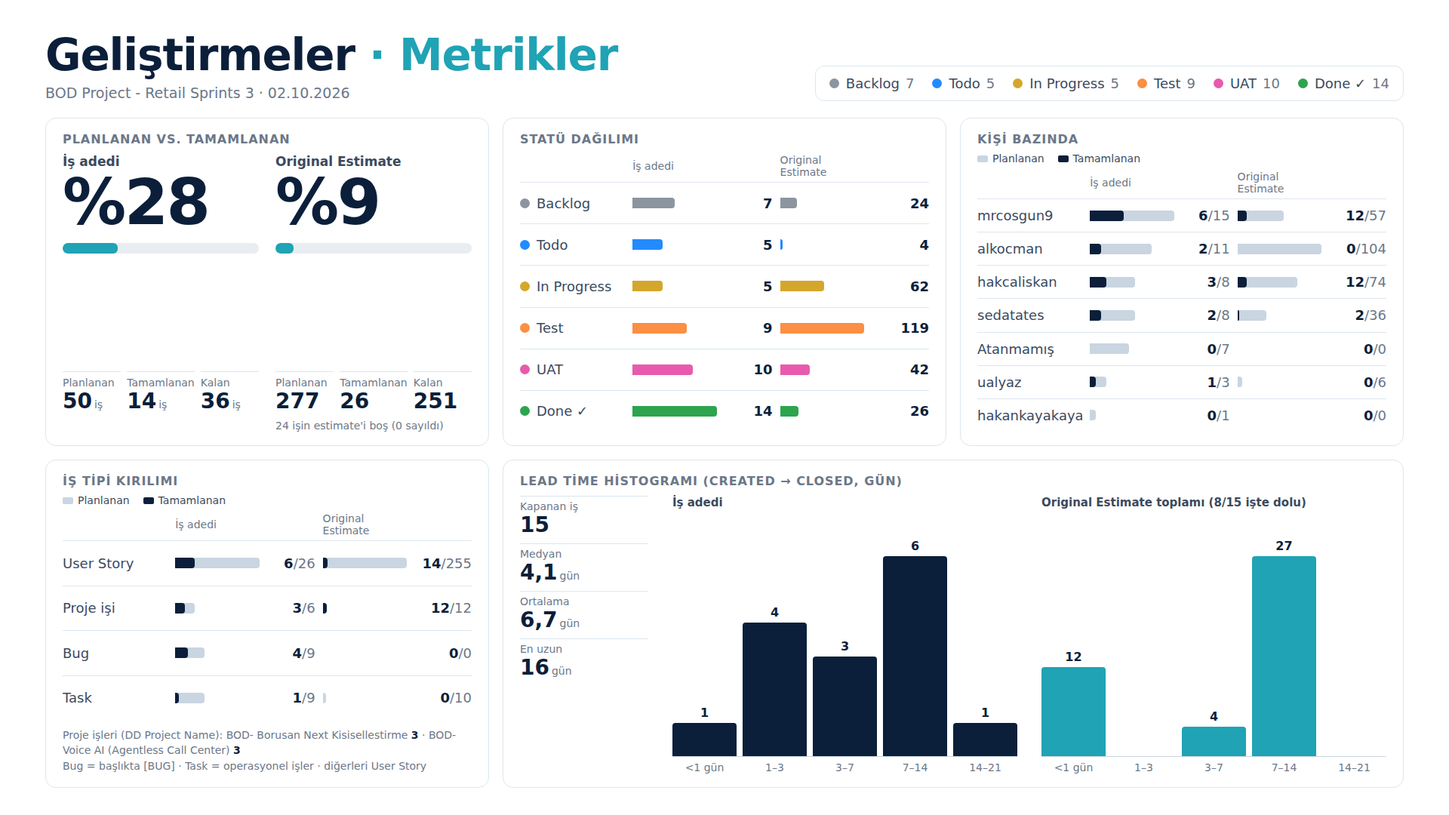
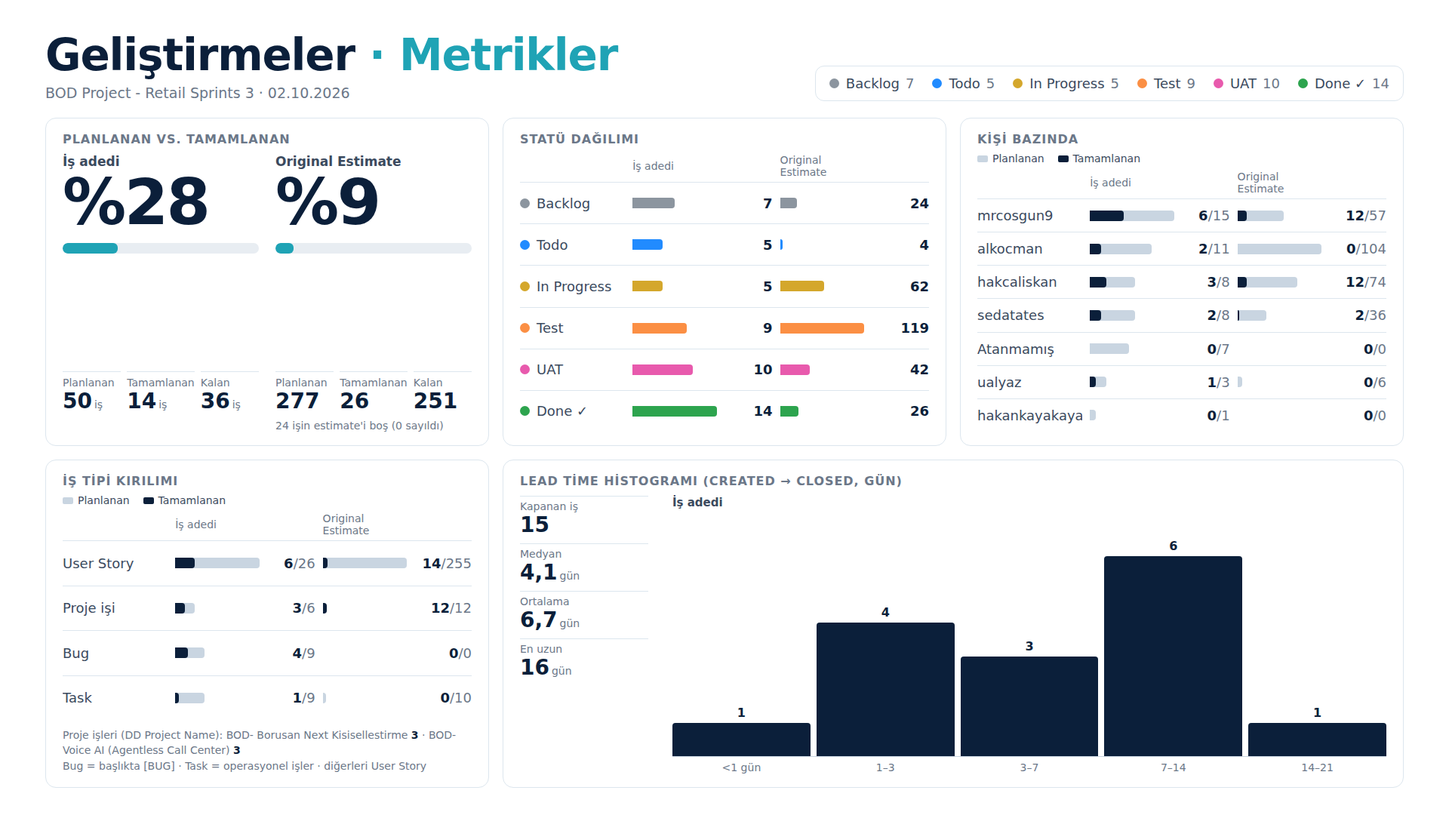
Add Auction team slides; lead time histogram by count only
- drop the Original Estimate version of the lead time histogram
- order exported statuses by workflow (Review before Test, Released after Done)
- task keywords are now word-aware regexes; add task/dönüşleri/modelbuilder/dwh
- generate Auction Sprints slides under sunum/auction

Claude-Session: https://claude.ai/code/session_014SYUQQBmb2NC56QaszpaqB

Changed region(s): [[0.6562, 0.6722, 0.9688, 0.9472], [0.4688, 0.6722, 0.6562, 0.9472], [0.7188, 0.6111, 0.9062, 0.6417]]

diff --git a/sunum/auction/auction-slaytlar.html b/sunum/auction/auction-slaytlar.html
@@ -1,0 +1,219 @@
+<!doctype html>
+<html lang="tr">
+<head>
+<meta charset="utf-8">
+<meta name="viewport" content="width=device-width, initial-scale=1">
+<title>Geliştirmeler Slaytları</title>
+<link rel="preconnect" href="https://fonts.googleapis.com">
+<link href="https://fonts.googleapis.com/css2?family=Plus+Jakarta+Sans:wght@400;500;600;800&display=swap" rel="stylesheet">
+<style>
+:root { --bg:#E9EDF2; --slide:#FFFFFF; --ink:#0B1F3A; --ink-2:#3B4A5E; --muted:#6B7788;
+  --rule:#DCE6EE; --accent:#1FA3B5; --track:#E8EDF2; --plan:#C9D5E1; --s:1; }
+* { box-sizing:border-box; }
+body { margin:0; background:var(--bg); color:var(--ink);
+  font-family:"Plus Jakarta Sans", Inter, system-ui, -apple-system, "Segoe UI", sans-serif; }
+.deck { display:flex; flex-direction:column; align-items:center; gap:24px; padding:24px 0; }
+.frame { width:calc(1920px * var(--s)); height:calc(1080px * var(--s)); overflow:hidden;
+  box-shadow:0 2px 12px rgba(11,31,58,.12); }
+.slide { width:1920px; height:1080px; background:var(--slide); padding:44px 60px 36px;
+  transform:scale(var(--s)); transform-origin:0 0; display:flex; flex-direction:column; }
+header { display:flex; align-items:flex-end; justify-content:space-between; gap:32px; margin-bottom:22px; }
+h1 { white-space:nowrap; font-size:58px; font-weight:800; letter-spacing:-.02em; margin:0; line-height:1; }
+h1 span { color:var(--accent); font-weight:600; }
+.sub { color:var(--muted); font-size:19px; margin-top:10px; white-space:nowrap; }
+.legend { list-style:none; margin:0; padding:12px 18px; display:flex; flex-wrap:wrap; gap:6px 24px;
+  border:1px solid var(--rule); border-radius:12px; font-size:18px; color:var(--ink-2); justify-content:flex-end; min-width:0; flex:0 1 auto; }
+.legend li { display:flex; align-items:center; }
+.legend .muted { margin-left:8px; color:var(--muted); font-variant-numeric:tabular-nums; }
+.dot { display:inline-block; width:13px; height:13px; border-radius:50%; background:var(--c); margin-right:9px; flex:none; }
+/* metrikler */
+.grid { flex:1; min-height:0; display:grid; grid-template-columns:repeat(3, minmax(0,1fr));
+  grid-template-rows:minmax(0,1fr) minmax(0,1fr); gap:18px; }
+.panel { border:1px solid var(--rule); border-radius:14px; padding:18px 22px; display:flex; flex-direction:column; min-height:0; }
+.panel.wide { grid-column:span 2; }
+.ptitle { font-size:16px; font-weight:600; text-transform:uppercase; letter-spacing:.06em; color:var(--muted); margin-bottom:10px; }
+.pfoot { font-size:14px; color:var(--muted); margin-top:auto; padding-top:10px; line-height:1.45; }
+.pfoot b { color:var(--ink); }
+.comps { display:grid; grid-template-columns:1fr 1fr; gap:22px; flex:1; }
+.comp { display:flex; flex-direction:column; }
+.clabel { font-size:17px; color:var(--ink-2); font-weight:600; }
+.chero { font-size:84px; font-weight:800; line-height:1.05; letter-spacing:-.03em; font-variant-numeric:tabular-nums; }
+.bar { height:14px; border-radius:7px; background:var(--track); overflow:hidden; margin:10px 0 auto; }
+.bar i { display:block; height:100%; background:var(--accent); border-radius:6px; }
+.cnums { display:grid; grid-template-columns:repeat(3,1fr); gap:8px; }
+.cnums div { display:flex; flex-direction:column; border-top:1px solid var(--rule); padding-top:6px; }
+.cnums span { font-size:14px; color:var(--muted); }
+.cnums b { font-size:28px; font-variant-numeric:tabular-nums; white-space:nowrap; }
+.cnums small, .lstats small { font-size:14px; font-weight:400; color:var(--muted); margin-left:3px; }
+.cnote { font-size:14px; color:var(--muted); margin-top:8px; }
+.dual { display:flex; flex-direction:column; flex:1; justify-content:space-evenly; }
+.dhead, .drow { display:grid; grid-template-columns:minmax(0,1.25fr) minmax(0,1fr) 64px minmax(0,1fr) 76px;
+  column-gap:10px; align-items:center; }
+.dhead { font-size:14px; color:var(--muted); padding-bottom:5px; }
+.drow { border-top:1px solid var(--rule); padding:6px 0; font-size:18px; flex:1; max-height:64px; }
+.dl { overflow:hidden; text-overflow:ellipsis; white-space:nowrap; color:var(--ink-2); display:flex; align-items:center; }
+.db { position:relative; height:14px; }
+.tr, .fi { position:absolute; left:0; top:0; height:100%; border-radius:0 4px 4px 0; }
+.tr { background:var(--plan); } .fi { background:var(--ink); }
+.dv { text-align:right; font-weight:600; font-variant-numeric:tabular-nums; white-space:nowrap; }
+.dv span { color:var(--muted); font-weight:400; }
+.pkey { display:flex; gap:18px; font-size:14px; color:var(--ink-2); margin:-2px 0 8px; }
+.pkey span::before { content:""; display:inline-block; width:14px; height:9px; border-radius:2px; margin-right:6px; background:var(--k); }
+.lead { display:grid; grid-template-columns:170px 1fr; gap:32px; flex:1; min-height:0; }
+.lstats { display:flex; flex-direction:column; gap:8px; }
+.lstats div { display:flex; flex-direction:column; border-top:1px solid var(--rule); padding-top:5px; }
+.lstats span { font-size:14px; color:var(--muted); }
+.lstats b { font-size:28px; font-variant-numeric:tabular-nums; }
+.hist { display:flex; flex-direction:column; min-height:0; }
+.htitle { font-size:15px; color:var(--ink-2); font-weight:600; margin-bottom:4px; }
+.hplot { flex:1; min-height:100px; display:flex; align-items:flex-end; gap:8px; border-bottom:1px solid var(--plan); }
+.hcol { flex:1; height:100%; display:flex; flex-direction:column; justify-content:flex-end; }
+.hval { text-align:center; font-size:16px; font-weight:600; font-variant-numeric:tabular-nums; margin-bottom:4px; }
+.hbar { border-radius:4px 4px 0 0; }
+.hx { display:flex; gap:8px; font-size:14px; color:var(--muted); margin-top:6px; }
+.hx div { flex:1; text-align:center; white-space:nowrap; }
+.hunit { font-size:13px; color:var(--muted); text-align:right; margin-top:2px; }
+.emptymsg { margin:auto; font-size:20px; color:var(--ink-2); }
+/* maddeler */
+.list { flex:1; min-height:0; list-style:none; margin:0; padding:0; columns:3; column-gap:56px;
+  column-fill:auto; column-rule:1px solid var(--accent); --fs:22px; overflow:hidden; }
+.list li { break-inside:avoid; display:flex; align-items:flex-start; gap:2px; padding:calc(var(--fs) * .42) 0;
+  border-bottom:1px solid var(--rule); font-size:var(--fs); line-height:1.28; font-weight:500; }
+.list .dot { width:calc(var(--fs) * .55); height:calc(var(--fs) * .55); margin-top:calc(var(--fs) * .38); }
+.list .t { flex:1; }
+.est { font-size:calc(var(--fs) * .7); color:var(--muted); border:1px solid var(--rule); border-radius:999px;
+  padding:1px 8px; margin:2px 0 0 8px; white-space:nowrap; }
+@media print {
+  @page { size:1920px 1080px; margin:0; }
+  body { background:none; } .deck { padding:0; gap:0; } .frame { box-shadow:none; break-after:page; }
+}
+</style>
+</head>
+<body>
+<div class="deck">
+<div class="frame"><section class="slide" id="s1" aria-label="Metrikler">
+  <header>
+    <div><h1>Geliştirmeler <span>· Metrikler</span></h1><div class="sub">BOD Project - Auction Sprints · 02.10.2026</div></div>
+    <ul class="legend" aria-label="Statü lejantı"><li><span class="dot" style="--c:#8C959F"></span>Backlog<span class="muted">1</span></li><li><span class="dot" style="--c:#218BFF"></span>Todo<span class="muted">6</span></li><li><span class="dot" style="--c:#D4A72C"></span>In Progress<span class="muted">4</span></li><li><span class="dot" style="--c:#A475F9"></span>Review<span class="muted">3</span></li><li><span class="dot" style="--c:#FB8F44"></span>Test<span class="muted">5</span></li><li><span class="dot" style="--c:#E85AAD"></span>UAT<span class="muted">13</span></li><li><span class="dot" style="--c:#2DA44E"></span>Done ✓<span class="muted">24</span></li><li><span class="dot" style="--c:#2DA44E"></span>Released ✓<span class="muted">1</span></li></ul>
+  </header>
+  <div class="grid">
+    <div class="panel"><div class="ptitle">Planlanan vs. tamamlanan</div>
+      <div class="comps">
+<div class="comp">
+  <div class="clabel">İş adedi</div>
+  <div class="chero">%44</div>
+  <div class="bar"><i style="width:43.86%"></i></div>
+  <div class="cnums">
+    <div><span>Planlanan</span><b>57<small>iş</small></b></div>
+    <div><span>Tamamlanan</span><b>25<small>iş</small></b></div>
+    <div><span>Kalan</span><b>32<small>iş</small></b></div>
+  </div>
+  <div class="cnote">&nbsp;</div>
+</div>
+<div class="comp">
+  <div class="clabel">Original Estimate</div>
+  <div class="chero">%19</div>
+  <div class="bar"><i style="width:18.80%"></i></div>
+  <div class="cnums">
+    <div><span>Planlanan</span><b>234</b></div>
+    <div><span>Tamamlanan</span><b>44</b></div>
+    <div><span>Kalan</span><b>190</b></div>
+  </div>
+  <div class="cnote">23 işin estimate'i boş (0 sayıldı)</div>
+</div></div></div>
+    <div class="panel"><div class="ptitle">Statü dağılımı</div><div class="dual"><div class="dhead"><span></span><span>İş adedi</span><span></span><span>Original Estimate</span><span></span></div><div class="drow"><div class="dl" title="Backlog"><span class="dot" style="--c:#8C959F"></span>Backlog</div><div class="db" title="Backlog: 1 iş"><div class="fi" style="width:4.17%;background:#8C959F"></div></div><div class="dv">1</div><div class="db" title="Backlog: 0 Original Estimate"><div class="fi" style="width:0.00%;background:#8C959F"></div></div><div class="dv">0</div></div><div class="drow"><div class="dl" title="Todo"><span class="dot" style="--c:#218BFF"></span>Todo</div><div class="db" title="Todo: 6 iş"><div class="fi" style="width:25.00%;background:#218BFF"></div></div><div class="dv">6</div><div class="db" title="Todo: 29 Original Estimate"><div class="fi" style="width:43.28%;background:#218BFF"></div></div><div class="dv">29</div></div><div class="drow"><div class="dl" title="In Progress"><span class="dot" style="--c:#D4A72C"></span>In Progress</div><div class="db" title="In Progress: 4 iş"><div class="fi" style="width:16.67%;background:#D4A72C"></div></div><div class="dv">4</div><div class="db" title="In Progress: 62 Original Estimate"><div class="fi" style="width:92.54%;background:#D4A72C"></div></div><div class="dv">62</div></div><div class="drow"><div class="dl" title="Review"><span class="dot" style="--c:#A475F9"></span>Review</div><div class="db" title="Review: 3 iş"><div class="fi" style="width:12.50%;background:#A475F9"></div></div><div class="dv">3</div><div class="db" title="Review: 9 Original Estimate"><div class="fi" style="width:13.43%;background:#A475F9"></div></div><div class="dv">9</div></div><div class="drow"><div class="dl" title="Test"><span class="dot" style="--c:#FB8F44"></span>Test</div><div class="db" title="Test: 5 iş"><div class="fi" style="width:20.83%;background:#FB8F44"></div></div><div class="dv">5</div><div class="db" title="Test: 23 Original Estimate"><div class="fi" style="width:34.33%;background:#FB8F44"></div></div><div class="dv">23</div></div><div class="drow"><div class="dl" title="UAT"><span class="dot" style="--c:#E85AAD"></span>UAT</div><div class="db" title="UAT: 13 iş"><div class="fi" style="width:54.17%;background:#E85AAD"></div></div><div class="dv">13</div><div class="db" title="UAT: 67 Original Estimate"><div class="fi" style="width:100.00%;background:#E85AAD"></div></div><div class="dv">67</div></div><div class="drow"><div class="dl" title="Done ✓"><span class="dot" style="--c:#2DA44E"></span>Done ✓</div><div class="db" title="Done ✓: 24 iş"><div class="fi" style="width:100.00%;background:#2DA44E"></div></div><div class="dv">24</div><div class="db" title="Done ✓: 44 Original Estimate"><div class="fi" style="width:65.67%;background:#2DA44E"></div></div><div class="dv">44</div></div><div class="drow"><div class="dl" title="Released ✓"><span class="dot" style="--c:#2DA44E"></span>Released ✓</div><div class="db" title="Released ✓: 1 iş"><div class="fi" style="width:4.17%;background:#2DA44E"></div></div><div class="dv">1</div><div class="db" title="Released ✓: 0 Original Estimate"><div class="fi" style="width:0.00%;background:#2DA44E"></div></div><div class="dv">0</div></div></div></div>
+    <div class="panel"><div class="ptitle">Kişi bazında</div>
+      <div class="pkey"><span style="--k:var(--plan)">Planlanan</span><span style="--k:var(--ink)">Tamamlanan</span></div>
+      <div class="dual"><div class="dhead"><span></span><span>İş adedi</span><span></span><span>Original Estimate</span><span></span></div><div class="drow"><div class="dl" title="grknksbr">grknksbr</div><div class="db" title="grknksbr: 22 iş"><div class="tr" style="width:100.00%"></div><div class="fi" style="width:72.73%"></div></div><div class="dv">16<span>/22</span></div><div class="db" title="grknksbr: 101 Original Estimate"><div class="tr" style="width:100.00%"></div><div class="fi" style="width:31.68%"></div></div><div class="dv">32<span>/101</span></div></div><div class="drow"><div class="dl" title="burakkarayakali">burakkarayakali</div><div class="db" title="burakkarayakali: 22 iş"><div class="tr" style="width:100.00%"></div><div class="fi" style="width:22.73%"></div></div><div class="dv">5<span>/22</span></div><div class="db" title="burakkarayakali: 87 Original Estimate"><div class="tr" style="width:86.14%"></div><div class="fi" style="width:5.94%"></div></div><div class="dv">6<span>/87</span></div></div><div class="drow"><div class="dl" title="ualyaz">ualyaz</div><div class="db" title="ualyaz: 9 iş"><div class="tr" style="width:40.91%"></div><div class="fi" style="width:13.64%"></div></div><div class="dv">3<span>/9</span></div><div class="db" title="ualyaz: 42 Original Estimate"><div class="tr" style="width:41.58%"></div><div class="fi" style="width:5.94%"></div></div><div class="dv">6<span>/42</span></div></div><div class="drow"><div class="dl" title="bcakaner">bcakaner</div><div class="db" title="bcakaner: 2 iş"><div class="tr" style="width:9.09%"></div><div class="fi" style="width:0.00%"></div></div><div class="dv">0<span>/2</span></div><div class="db" title="bcakaner: 0 Original Estimate"><div class="tr" style="width:0.00%"></div><div class="fi" style="width:0.00%"></div></div><div class="dv">0<span>/0</span></div></div><div class="drow"><div class="dl" title="sedatates">sedatates</div><div class="db" title="sedatates: 1 iş"><div class="tr" style="width:4.55%"></div><div class="fi" style="width:0.00%"></div></div><div class="dv">0<span>/1</span></div><div class="db" title="sedatates: 4 Original Estimate"><div class="tr" style="width:3.96%"></div><div class="fi" style="width:0.00%"></div></div><div class="dv">0<span>/4</span></div></div><div class="drow"><div class="dl" title="Atanmamış">Atanmamış</div><div class="db" title="Atanmamış: 1 iş"><div class="tr" style="width:4.55%"></div><div class="fi" style="width:4.55%"></div></div><div class="dv">1<span>/1</span></div><div class="db" title="Atanmamış: 0 Original Estimate"><div class="tr" style="width:0.00%"></div><div class="fi" style="width:0.00%"></div></div><div class="dv">0<span>/0</span></div></div></div></div>
+    <div class="panel"><div class="ptitle">İş tipi kırılımı</div>
+      <div class="pkey"><span style="--k:var(--plan)">Planlanan</span><span style="--k:var(--ink)">Tamamlanan</span></div>
+      <div class="dual"><div class="dhead"><span></span><span>İş adedi</span><span></span><span>Original Estimate</span><span></span></div><div class="drow"><div class="dl" title="User Story">User Story</div><div class="db" title="User Story: 37 iş"><div class="tr" style="width:100.00%"></div><div class="fi" style="width:27.03%"></div></div><div class="dv">10<span>/37</span></div><div class="db" title="User Story: 208 Original Estimate"><div class="tr" style="width:100.00%"></div><div class="fi" style="width:9.62%"></div></div><div class="dv">20<span>/208</span></div></div><div class="drow"><div class="dl" title="Proje işi">Proje işi</div><div class="db" title="Proje işi: 0 iş"><div class="tr" style="width:0.00%"></div><div class="fi" style="width:0.00%"></div></div><div class="dv">0<span>/0</span></div><div class="db" title="Proje işi: 0 Original Estimate"><div class="tr" style="width:0.00%"></div><div class="fi" style="width:0.00%"></div></div><div class="dv">0<span>/0</span></div></div><div class="drow"><div class="dl" title="Bug">Bug</div><div class="db" title="Bug: 7 iş"><div class="tr" style="width:18.92%"></div><div class="fi" style="width:10.81%"></div></div><div class="dv">4<span>/7</span></div><div class="db" title="Bug: 0 Original Estimate"><div class="tr" style="width:0.00%"></div><div class="fi" style="width:0.00%"></div></div><div class="dv">0<span>/0</span></div></div><div class="drow"><div class="dl" title="Task">Task</div><div class="db" title="Task: 13 iş"><div class="tr" style="width:35.14%"></div><div class="fi" style="width:29.73%"></div></div><div class="dv">11<span>/13</span></div><div class="db" title="Task: 26 Original Estimate"><div class="tr" style="width:12.50%"></div><div class="fi" style="width:11.54%"></div></div><div class="dv">24<span>/26</span></div></div></div>
+      <div class="pfoot">Proje işleri (DD Project Name): —<br>
+      Bug = başlıkta [BUG] · Task = operasyonel işler · diğerleri User Story</div></div>
+    <div class="panel wide"><div class="ptitle">Lead time histogramı (Created → Closed, gün)</div>
+      <div class="lead"><div class="lstats"><div><span>Kapanan iş</span><b>24</b></div><div><span>Medyan</span><b>17,9<small>gün</small></b></div><div><span>Ortalama</span><b>16,9<small>gün</small></b></div><div><span>En uzun</span><b>37<small>gün</small></b></div></div><div class="hist"><div class="htitle">İş adedi</div><div class="hplot"><div class="hcol" title="&lt;1 gün gün: 0"><div class="hval"></div><div class="hbar" style="height:0.00%;background:var(--ink)"></div></div><div class="hcol" title="1–3 gün: 3"><div class="hval">3</div><div class="hbar" style="height:22.36%;background:var(--ink)"></div></div><div class="hcol" title="3–7 gün: 2"><div class="hval">2</div><div class="hbar" style="height:14.91%;background:var(--ink)"></div></div><div class="hcol" title="7–14 gün: 2"><div class="hval">2</div><div class="hbar" style="height:14.91%;background:var(--ink)"></div></div><div class="hcol" title="14–21 gün: 11"><div class="hval">11</div><div class="hbar" style="height:82.00%;background:var(--ink)"></div></div><div class="hcol" title="21–30 gün: 3"><div class="hval">3</div><div class="hbar" style="height:22.36%;background:var(--ink)"></div></div><div class="hcol" title="30+ gün: 3"><div class="hval">3</div><div class="hbar" style="height:22.36%;background:var(--ink)"></div></div></div><div class="hx"><div>&lt;1 gün</div><div>1–3</div><div>3–7</div><div>7–14</div><div>14–21</div><div>21–30</div><div>30+</div></div></div></div></div>
+  </div>
+</section></div>
+
+<div class="frame"><section class="slide" id="s2" aria-label="Maddeler">
+  <header>
+    <div><h1>Geliştirmeler</h1><div class="sub">BOD Project - Auction Sprints · 02.10.2026 · 57 iş · ✓ = tamamlandı · rozet = Original Estimate</div></div>
+    <ul class="legend" aria-label="Statü lejantı"><li><span class="dot" style="--c:#8C959F"></span>Backlog<span class="muted">1</span></li><li><span class="dot" style="--c:#218BFF"></span>Todo<span class="muted">6</span></li><li><span class="dot" style="--c:#D4A72C"></span>In Progress<span class="muted">4</span></li><li><span class="dot" style="--c:#A475F9"></span>Review<span class="muted">3</span></li><li><span class="dot" style="--c:#FB8F44"></span>Test<span class="muted">5</span></li><li><span class="dot" style="--c:#E85AAD"></span>UAT<span class="muted">13</span></li><li><span class="dot" style="--c:#2DA44E"></span>Done ✓<span class="muted">24</span></li><li><span class="dot" style="--c:#2DA44E"></span>Released ✓<span class="muted">1</span></li></ul>
+  </header>
+  <ul class="list">
+<li><span class="dot" style="--c:#8C959F"></span><span class="t">NPS Kurgusunun İncelenmesi</span></li>
+<li><span class="dot" style="--c:#218BFF"></span><span class="t">[BUG] Canlı İhaledeki Araçların Satışlarının İptal Olması Hk.</span></li>
+<li><span class="dot" style="--c:#218BFF"></span><span class="t">DATA - Register Süreçleri Funnel Event Entegrasyonu FE - 4h</span><span class="est">4</span></li>
+<li><span class="dot" style="--c:#218BFF"></span><span class="t">Devir Kartı Ekranında Tedarikçi Noter Alanının Güncellenmesi BE</span><span class="est">6</span></li>
+<li><span class="dot" style="--c:#218BFF"></span><span class="t">Devir Kartı Ekranında Tedarikçi Noter Alanının Güncellenmesi FE</span><span class="est">4</span></li>
+<li><span class="dot" style="--c:#218BFF"></span><span class="t">Yeni Üyelik | Evraklarını Tamamlamayan Müşterilere Otomatik Hatırlatma Maili BE</span><span class="est">10</span></li>
+<li><span class="dot" style="--c:#218BFF"></span><span class="t">Yeni Üyelik | Evraklarını Tamamlamayan Müşterilere Otomatik Hatırlatma Maili FE</span><span class="est">5</span></li>
+<li><span class="dot" style="--c:#D4A72C"></span><span class="t">[BUG] OCR ile Belge Okuma Hatası</span></li>
+<li><span class="dot" style="--c:#D4A72C"></span><span class="t">Critical CSS Uygulaması</span><span class="est">10</span></li>
+<li><span class="dot" style="--c:#D4A72C"></span><span class="t">One Click Auction - Araç Bilgilerinin SmartIq&#x27;dan Jarvise İletilmesi</span><span class="est">36</span></li>
+<li><span class="dot" style="--c:#D4A72C"></span><span class="t">One Click Auction - Araçların İhaleye Eklenmesi</span><span class="est">16</span></li>
+<li><span class="dot" style="--c:#A475F9"></span><span class="t">Araç Fotoğraflama Ekran Düzenlemeleri BE</span><span class="est">4</span></li>
+<li><span class="dot" style="--c:#A475F9"></span><span class="t">Birden Fazla Plakayı Aynı Anda Aratma</span><span class="est">5</span></li>
+<li><span class="dot" style="--c:#A475F9"></span><span class="t">Fetchpriority Düzenlemeleri</span></li>
+<li><span class="dot" style="--c:#FB8F44"></span><span class="t">[BUG] Ekspertiz Pointlerinin Çoklaması Hk.</span></li>
+<li><span class="dot" style="--c:#FB8F44"></span><span class="t">DATA - Register Süreçleri Funnel Event Entegrasyonu Jarvis İnceleme Taskı</span><span class="est">2</span></li>
+<li><span class="dot" style="--c:#FB8F44"></span><span class="t">Ekspertiz Krokisi Oluşmayan Kayıtlar İçin Jarviste Servisinin Oluşturulması</span><span class="est">8</span></li>
+<li><span class="dot" style="--c:#FB8F44"></span><span class="t">Satıcı İçin Dijital Üyelik Geliştirmesi BE</span><span class="est">5</span></li>
+<li><span class="dot" style="--c:#FB8F44"></span><span class="t">Satıcı İçin Dijital Üyelik Geliştirmesi FE</span><span class="est">8</span></li>
+<li><span class="dot" style="--c:#E85AAD"></span><span class="t">Araç Fotoğraflama Ekran Düzenlemeleri FE</span><span class="est">4</span></li>
+<li><span class="dot" style="--c:#E85AAD"></span><span class="t">Bana Özel Satıştaki Araç Düzenleme Alanında Ekspertiz PDF İndirme</span><span class="est">6</span></li>
+<li><span class="dot" style="--c:#E85AAD"></span><span class="t">Hatalı Lazy Load Kurgusunun Düzeltilmesi</span><span class="est">9</span></li>
+<li><span class="dot" style="--c:#E85AAD"></span><span class="t">Hero Görsellerin Preload Edilmesi</span><span class="est">8</span></li>
+<li><span class="dot" style="--c:#E85AAD"></span><span class="t">İhale Araç Liste Görünümünden &quot;Tramer Tutarı&quot; Kolonunun Kaldırılması</span><span class="est">2</span></li>
+<li><span class="dot" style="--c:#E85AAD"></span><span class="t">İhale ekranları renk değişimi</span></li>
+<li><span class="dot" style="--c:#E85AAD"></span><span class="t">Potansiyel Müşteri Sahibi, Dönüştüren Kullanıcı Bilgisinin Tutulması BE</span><span class="est">8</span></li>
+<li><span class="dot" style="--c:#E85AAD"></span><span class="t">Potansiyel Müşteri Sahibi, Dönüştüren Kullanıcı Bilgisinin Tutulması FE</span><span class="est">2</span></li>
+<li><span class="dot" style="--c:#E85AAD"></span><span class="t">Toplu Ekspertiz Sıralama Fonksiyonu Eklenmesi BE</span><span class="est">4</span></li>
+<li><span class="dot" style="--c:#E85AAD"></span><span class="t">Toplu Ekspertiz Sıralama Fonksiyonu Eklenmesi FE</span><span class="est">3</span></li>
+<li><span class="dot" style="--c:#E85AAD"></span><span class="t">Trafik Sigortası için Onay Vermeyen Müşterilere Pop-up Açılması</span><span class="est">10</span></li>
+<li><span class="dot" style="--c:#E85AAD"></span><span class="t">User_Data Bilgisinin Eklenmesi (NPS Kurgusu)</span><span class="est">3</span></li>
+<li><span class="dot" style="--c:#E85AAD"></span><span class="t">Yarı Römork İşlemlerinde Şasi Kısıtlaması - 8h</span><span class="est">8</span></li>
+<li><span class="dot" style="--c:#2DA44E"></span><span class="t">[BUG] Canlı İhalede Teklif Adedinin Sayfa Büyütüldüğünde Kayması</span></li>
+<li><span class="dot" style="--c:#2DA44E"></span><span class="t">[BUG] Hatalı Şasi Mailinin Gönderilmemesi Hk.</span></li>
+<li><span class="dot" style="--c:#2DA44E"></span><span class="t">[BUG] İhale Listesinde Profil Fotoğrafının Gösterilmemesi Hk.</span></li>
+<li><span class="dot" style="--c:#2DA44E"></span><span class="t">[BUG] İhaleye Eklenen Araçların Tramer Okuma Hatası</span></li>
+<li><span class="dot" style="--c:#2DA44E"></span><span class="t">Blurların Parametrik Yönetilmesi BNI Ekran Yönetimi</span><span class="est">4</span></li>
+<li><span class="dot" style="--c:#2DA44E"></span><span class="t">Blurların parametrik yönetilmesi Mobil ve Web Servislere Eklenmesi</span><span class="est">3</span></li>
+<li><span class="dot" style="--c:#2DA44E"></span><span class="t">BNI Ekspertiz Pdf ve İhalede Ekspertiz Açıklamasının Düzenlenmesi BE</span><span class="est">3</span></li>
+<li><span class="dot" style="--c:#2DA44E"></span><span class="t">Canlı İhale Ekranında Ekspertiz fotoğraflarına Ek Olarak Hasar Görsellerinin de Gösterilmesi</span></li>
+<li><span class="dot" style="--c:#2DA44E"></span><span class="t">Canlı İhalede Ekspertiz Renklerinin Güncellenmesi</span></li>
+<li><span class="dot" style="--c:#2DA44E"></span><span class="t">DWH Tablo Güncellemeler</span><span class="est">24</span></li>
+<li><span class="dot" style="--c:#2DA44E"></span><span class="t">Ekspertiz Dönüş Taskı FE</span></li>
+<li><span class="dot" style="--c:#2DA44E"></span><span class="t">Ekspertiz Dönüşleri BE</span></li>
+<li><span class="dot" style="--c:#2DA44E"></span><span class="t">Ekspertiz Talep Ekranı Test Dönüşleri</span></li>
+<li><span class="dot" style="--c:#2DA44E"></span><span class="t">İhale Araç Kartında Hasar Fotoğraflarının Gösterimi Hk.</span><span class="est">3</span></li>
+<li><span class="dot" style="--c:#2DA44E"></span><span class="t">İhale Temel Metrikler Raporunun Jarviste Görüntülenmesi BE - 2h</span><span class="est">2</span></li>
+<li><span class="dot" style="--c:#2DA44E"></span><span class="t">İhale Temel Metrikler Raporunun Jarviste Görüntülenmesi FE - 4h</span><span class="est">2</span></li>
+<li><span class="dot" style="--c:#2DA44E"></span><span class="t">modelBuilder.Entity&lt;AuctionSummary&gt;().HasNoKey();</span></li>
+<li><span class="dot" style="--c:#2DA44E"></span><span class="t">modelBuilder.Entity&lt;BAI_Recommendations&gt;().HasNoKey().ToView(&quot;vw_BAI_Recommendations&quot;, &quot;bod&quot;);</span></li>
+<li><span class="dot" style="--c:#2DA44E"></span><span class="t">modelBuilder.Entity&lt;CompletedBids&gt;().HasNoKey().ToView(&quot;vw_JARVIS_CompletedBids&quot;);</span></li>
+<li><span class="dot" style="--c:#2DA44E"></span><span class="t">modelBuilder.Entity&lt;CustomerMonthly&gt;().HasNoKey().ToView(&quot;vw_JARVIS_CustomerMonthly&quot;);</span></li>
+<li><span class="dot" style="--c:#2DA44E"></span><span class="t">modelBuilder.Entity&lt;CustomerSummary&gt;().HasNoKey().ToView(&quot;vw_JARVIS_CustomerSummary&quot;);</span></li>
+<li><span class="dot" style="--c:#2DA44E"></span><span class="t">modelBuilder.Entity&lt;FactSellerVehicleBid&gt;().HasNoKey().ToView(&quot;vw_JARVIS_FactSellerVehicleBid&quot;);</span></li>
+<li><span class="dot" style="--c:#2DA44E"></span><span class="t">modelBuilder.Entity&lt;LiveAuctionBid&gt;().HasNoKey().ToView(&quot;vw_JARVIS_LiveAuctionVehicleBid&quot;);</span></li>
+<li><span class="dot" style="--c:#2DA44E"></span><span class="t">Satıcı Performans Listesi ve Excel Alanında Teklif Adedi Alanının Boş Gösterilmesi - 3h</span><span class="est">3</span></li>
+<li><span class="dot" style="--c:#2DA44E"></span><span class="t">deneme</span></li>
+  </ul>
+</section></div>
+</div>
+<script>
+(() => {
+  // Maddeler slaytına sığana kadar yazı boyutunu küçült
+  const list = document.querySelector('.list');
+  let fs = 22;
+  const fits = () => list.scrollWidth <= list.clientWidth + 1 && list.scrollHeight <= list.clientHeight + 1;
+  list.style.setProperty('--fs', fs + 'px');
+  while (!fits() && fs > 11) { fs -= 0.5; list.style.setProperty('--fs', fs + 'px'); }
+  document.body.dataset.fitted = fs;
+  const scale = () => document.documentElement.style.setProperty('--s',
+    Math.min(1, (innerWidth - 32) / 1920).toFixed(4));
+  scale(); addEventListener('resize', scale);
+})();
+</script>
+</body>
+</html>

diff --git a/sunum/gelistirmeler-slaytlar.html b/sunum/gelistirmeler-slaytlar.html
@@ -20,9 +20,9 @@ body { margin:0; background:var(--bg); color:var(--ink);
 header { display:flex; align-items:flex-end; justify-content:space-between; gap:32px; margin-bottom:22px; }
 h1 { white-space:nowrap; font-size:58px; font-weight:800; letter-spacing:-.02em; margin:0; line-height:1; }
 h1 span { color:var(--accent); font-weight:600; }
-.sub { color:var(--muted); font-size:19px; margin-top:10px; }
+.sub { color:var(--muted); font-size:19px; margin-top:10px; white-space:nowrap; }
 .legend { list-style:none; margin:0; padding:12px 18px; display:flex; flex-wrap:wrap; gap:6px 24px;
-  border:1px solid var(--rule); border-radius:12px; font-size:18px; color:var(--ink-2); justify-content:flex-end; }
+  border:1px solid var(--rule); border-radius:12px; font-size:18px; color:var(--ink-2); justify-content:flex-end; min-width:0; flex:0 1 auto; }
 .legend li { display:flex; align-items:center; }
 .legend .muted { margin-left:8px; color:var(--muted); font-variant-numeric:tabular-nums; }
 .dot { display:inline-block; width:13px; height:13px; border-radius:50%; background:var(--c); margin-right:9px; flex:none; }
@@ -59,7 +59,7 @@ h1 span { color:var(--accent); font-weight:600; }
 .dv span { color:var(--muted); font-weight:400; }
 .pkey { display:flex; gap:18px; font-size:14px; color:var(--ink-2); margin:-2px 0 8px; }
 .pkey span::before { content:""; display:inline-block; width:14px; height:9px; border-radius:2px; margin-right:6px; background:var(--k); }
-.lead { display:grid; grid-template-columns:170px 1fr 1fr; gap:32px; flex:1; min-height:0; }
+.lead { display:grid; grid-template-columns:170px 1fr; gap:32px; flex:1; min-height:0; }
 .lstats { display:flex; flex-direction:column; gap:8px; }
 .lstats div { display:flex; flex-direction:column; border-top:1px solid var(--rule); padding-top:5px; }
 .lstats span { font-size:14px; color:var(--muted); }
@@ -131,7 +131,7 @@ h1 span { color:var(--accent); font-weight:600; }
       <div class="pfoot">Proje işleri (DD Project Name): BOD- Borusan Next Kisisellestirme <b>3</b> · BOD- Voice AI (Agentless Call Center) <b>3</b><br>
       Bug = başlıkta [BUG] · Task = operasyonel işler · diğerleri User Story</div></div>
     <div class="panel wide"><div class="ptitle">Lead time histogramı (Created → Closed, gün)</div>
-      <div class="lead"><div class="lstats"><div><span>Kapanan iş</span><b>15</b></div><div><span>Medyan</span><b>4,1<small>gün</small></b></div><div><span>Ortalama</span><b>6,7<small>gün</small></b></div><div><span>En uzun</span><b>16<small>gün</small></b></div></div><div class="hist"><div class="htitle">İş adedi</div><div class="hplot"><div class="hcol" title="&lt;1 gün gün: 1"><div class="hval">1</div><div class="hbar" style="height:13.67%;background:var(--ink)"></div></div><div class="hcol" title="1–3 gün: 4"><div class="hval">4</div><div class="hbar" style="height:54.67%;background:var(--ink)"></div></div><div class="hcol" title="3–7 gün: 3"><div class="hval">3</div><div class="hbar" style="height:41.00%;background:var(--ink)"></div></div><div class="hcol" title="7–14 gün: 6"><div class="hval">6</div><div class="hbar" style="height:82.00%;background:var(--ink)"></div></div><div class="hcol" title="14–21 gün: 1"><div class="hval">1</div><div class="hbar" style="height:13.67%;background:var(--ink)"></div></div></div><div class="hx"><div>&lt;1 gün</div><div>1–3</div><div>3–7</div><div>7–14</div><div>14–21</div></div></div><div class="hist"><div class="htitle">Original Estimate toplamı (8/15 işte dolu)</div><div class="hplot"><div class="hcol" title="&lt;1 gün gün: 12"><div class="hval">12</div><div class="hbar" style="height:36.44%;background:var(--accent)"></div></div><div class="hcol" title="1–3 gün: 0"><div class="hval"></div><div class="hbar" style="height:0.00%;background:var(--accent)"></div></div><div class="hcol" title="3–7 gün: 4"><div class="hval">4</div><div class="hbar" style="height:12.15%;background:var(--accent)"></div></div><div class="hcol" title="7–14 gün: 27"><div class="hval">27</div><div class="hbar" style="height:82.00%;background:var(--accent)"></div></div><div class="hcol" title="14–21 gün: 0"><div class="hval"></div><div class="hbar" style="height:0.00%;background:var(--accent)"></div></div></div><div class="hx"><div>&lt;1 gün</div><div>1–3</div><div>3–7</div><div>7–14</div><div>14–21</div></div></div></div></div>
+      <div class="lead"><div class="lstats"><div><span>Kapanan iş</span><b>15</b></div><div><span>Medyan</span><b>4,1<small>gün</small></b></div><div><span>Ortalama</span><b>6,7<small>gün</small></b></div><div><span>En uzun</span><b>16<small>gün</small></b></div></div><div class="hist"><div class="htitle">İş adedi</div><div class="hplot"><div class="hcol" title="&lt;1 gün gün: 1"><div class="hval">1</div><div class="hbar" style="height:13.67%;background:var(--ink)"></div></div><div class="hcol" title="1–3 gün: 4"><div class="hval">4</div><div class="hbar" style="height:54.67%;background:var(--ink)"></div></div><div class="hcol" title="3–7 gün: 3"><div class="hval">3</div><div class="hbar" style="height:41.00%;background:var(--ink)"></div></div><div class="hcol" title="7–14 gün: 6"><div class="hval">6</div><div class="hbar" style="height:82.00%;background:var(--ink)"></div></div><div class="hcol" title="14–21 gün: 1"><div class="hval">1</div><div class="hbar" style="height:13.67%;background:var(--ink)"></div></div></div><div class="hx"><div>&lt;1 gün</div><div>1–3</div><div>3–7</div><div>7–14</div><div>14–21</div></div></div></div></div>
   </div>
 </section></div>
 

diff --git a/.claude/skills/gelistirmeler-raporu/scripts/build_slides.py b/.claude/skills/gelistirmeler-raporu/scripts/build_slides.py
@@ -1,9 +1,9 @@
 #!/usr/bin/env python3
 """Geliştirmeler raporunu 16:9 (1920x1080) iki slayt olarak üretir.
 
-Slayt 1: Metrikler — her grafik iki versiyonlu (İş adedi | Original Estimate):
+Slayt 1: Metrikler — grafikler iki versiyonlu (İş adedi | Original Estimate):
          tamamlanma oranı, statü dağılımı, kişi bazında planlanan vs. tamamlanan,
-         iş tipi kırılımı (User Story / Proje işi / Bug / Task) ve lead time histogramı.
+         iş tipi kırılımı (User Story / Proje işi / Bug / Task); lead time histogramı yalnız adet.
 Slayt 2: Maddeler — statü renkli bullet'lı iş listesi (yazı boyutu sığana kadar küçülür).
 
 Veri kaynağı seçenekleri build_report.py ile aynıdır. PNG için:
@@ -25,8 +25,10 @@ from build_report import (COUNT_FIELD, DEFAULT_DONE, NO_STATUS_COLOR,  # noqa: E
                           normalize, pick_estimate_field)
 
 TYPES = ["User Story", "Proje işi", "Bug", "Task"]
-DEFAULT_TASK_KEYWORDS = ["işlemler", "toplantı", "takvim", "kurulum", "inceleme", "migration",
-                         "dependabot", "destek süreci", "deployment"]
+# Düzenli ifade; başlığın küçük harfli halinde aranır
+DEFAULT_TASK_KEYWORDS = [r"işlemler(i)?\b", "toplantı", "takvim", "kurulum", "incele", "migration",
+                         "dependabot", "destek süreci", "deployment", "task", "dönüşleri",
+                         "modelbuilder", "dwh"]
 LEAD_BINS = [(0, 1, "<1 gün"), (1, 3, "1–3"), (3, 7, "3–7"), (7, 14, "7–14"),
              (14, 21, "14–21"), (21, 30, "21–30"), (30, None, "30+")]
 
@@ -50,7 +52,7 @@ def classify(it: dict, project_field: str, task_kw: list[str]) -> str:
         return "Task"
     if t in ("user story", "story", "feature"):
         return "User Story"
-    if any(k in title for k in task_kw):
+    if any(re.search(k, title) for k in task_kw):
         return "Task"
     return "User Story"
 
@@ -224,15 +226,12 @@ def build(a) -> None:
     while len(bins) > 4 and not bins[-1]["c"]:
         bins.pop()
     leads = [r["lead"] for r in closed]
-    est_closed = [r for r in closed if r["est"]]
     if leads:
         lead_stats = (f'<div><span>Kapanan iş</span><b>{len(leads)}</b></div>'
                       f'<div><span>Medyan</span><b>{fmt(round(statistics.median(leads), 1))}<small>gün</small></b></div>'
                       f'<div><span>Ortalama</span><b>{fmt(round(statistics.mean(leads), 1))}<small>gün</small></b></div>'
                       f'<div><span>En uzun</span><b>{fmt(round(max(leads), 1))}<small>gün</small></b></div>')
-        hists = (histogram(bins, "c", "İş adedi", "var(--ink)")
-                 + histogram(bins, "e", f"{est_label} toplamı ({len(est_closed)}/{len(leads)} işte dolu)",
-                             "var(--accent)"))
+        hists = histogram(bins, "c", "İş adedi", "var(--ink)")
     else:
         lead_stats, hists = "", '<div class="emptymsg">Created / Closed verisi yok.</div>'
 
@@ -271,7 +270,7 @@ def build(a) -> None:
         print(f"    {t}: " + " | ".join(r["title"][:50] for r in rows if r["kind"] == t))
     if leads:
         print(f"  lead time: {len(leads)} kapanan iş, medyan {statistics.median(leads):.1f} gün · "
-              + ", ".join(f"{b['label']}: {b['c']}/{fmt(b['e'])}" for b in bins))
+              + ", ".join(f"{b['label']}: {b['c']}" for b in bins))
     for w in warnings:
         print("uyarı:", w, file=sys.stderr)
 
@@ -298,9 +297,9 @@ body {{ margin:0; background:var(--bg); color:var(--ink);
 header {{ display:flex; align-items:flex-end; justify-content:space-between; gap:32px; margin-bottom:22px; }}
 h1 {{ white-space:nowrap; font-size:58px; font-weight:800; letter-spacing:-.02em; margin:0; line-height:1; }}
 h1 span {{ color:var(--accent); font-weight:600; }}
-.sub {{ color:var(--muted); font-size:19px; margin-top:10px; }}
+.sub {{ color:var(--muted); font-size:19px; margin-top:10px; white-space:nowrap; }}
 .legend {{ list-style:none; margin:0; padding:12px 18px; display:flex; flex-wrap:wrap; gap:6px 24px;
-  border:1px solid var(--rule); border-radius:12px; font-size:18px; color:var(--ink-2); justify-content:flex-end; }}
+  border:1px solid var(--rule); border-radius:12px; font-size:18px; color:var(--ink-2); justify-content:flex-end; min-width:0; flex:0 1 auto; }}
 .legend li {{ display:flex; align-items:center; }}
 .legend .muted {{ margin-left:8px; color:var(--muted); font-variant-numeric:tabular-nums; }}
 .dot {{ display:inline-block; width:13px; height:13px; border-radius:50%; background:var(--c); margin-right:9px; flex:none; }}
@@ -337,7 +336,7 @@ h1 span {{ color:var(--accent); font-weight:600; }}
 .dv span {{ color:var(--muted); font-weight:400; }}
 .pkey {{ display:flex; gap:18px; font-size:14px; color:var(--ink-2); margin:-2px 0 8px; }}
 .pkey span::before {{ content:""; display:inline-block; width:14px; height:9px; border-radius:2px; margin-right:6px; background:var(--k); }}
-.lead {{ display:grid; grid-template-columns:170px 1fr 1fr; gap:32px; flex:1; min-height:0; }}
+.lead {{ display:grid; grid-template-columns:170px 1fr; gap:32px; flex:1; min-height:0; }}
 .lstats {{ display:flex; flex-direction:column; gap:8px; }}
 .lstats div {{ display:flex; flex-direction:column; border-top:1px solid var(--rule); padding-top:5px; }}
 .lstats span {{ font-size:14px; color:var(--muted); }}

diff --git a/.claude/skills/gelistirmeler-raporu/scripts/build_report.py b/.claude/skills/gelistirmeler-raporu/scripts/build_report.py
@@ -48,8 +48,14 @@ DEFAULT_STATUS_COLORS = {
     "in progress": "YELLOW", "devam ediyor": "YELLOW", "geliştirmede": "YELLOW",
     "in review": "PURPLE", "review": "PURPLE", "code review": "PURPLE",
     "test": "ORANGE", "qa": "ORANGE", "uat": "PINK", "blocked": "RED", "engelli": "RED",
+    "released": "GREEN", "yayında": "GREEN",
     "done": "GREEN", "tamamlandı": "GREEN", "closed": "GREEN", "canlıda": "GREEN",
 }
+# Export'ta pano sırası yok; bilinen statüler iş akışı sırasına dizilir
+STATUS_RANK = {"backlog": 0, "todo": 1, "to do": 1, "yapılacak": 1, "in progress": 2,
+               "geliştirmede": 2, "devam ediyor": 2, "blocked": 2.5, "engelli": 2.5,
+               "in review": 3, "review": 3, "code review": 3, "test": 4, "qa": 4, "uat": 5,
+               "done": 6, "tamamlandı": 6, "closed": 6, "released": 7, "canlıda": 7, "yayında": 7}
 COUNT_FIELD = "__count__"
 
 DEFAULT_DONE = ["done", "tamamlandı", "tamamlandi", "completed", "closed",
@@ -364,7 +370,8 @@ def load_export(path: str, status_field: str) -> dict:
         "statusField": status_field,
         # TSV sütun sırası pano kolon sırasını izler; renkler isimden tahmin edilir
         "statusOptions": [{"name": n, "color": DEFAULT_STATUS_COLORS.get(n.lower(), "GRAY"),
-                           "description": ""} for n in seen],
+                           "description": ""}
+                          for n in sorted(seen, key=lambda n: STATUS_RANK.get(n.lower(), 3.5))],
         "numberFields": [{"name": c, "databaseId": None} for c in number_fields],
         "items": items,
     }

diff --git a/.claude/skills/gelistirmeler-raporu/SKILL.md b/.claude/skills/gelistirmeler-raporu/SKILL.md
@@ -102,12 +102,13 @@ python3 $D/build_slides.py --from-export veri.tsv --clean-titles --unit SP -o sl
 node $D/export_png.mjs slaytlar.html slayt     # -> slayt-1.png, slayt-2.png (1920x1080)
 ```
 
-- **Slayt 1 – Metrikler:** her grafik iki versiyonlu (İş adedi | Original Estimate):
-  planlanan vs. tamamlanan oranı, statü dağılımı, kişi bazında, iş tipi kırılımı ve
-  lead time histogramı (Created → Closed, gün; medyan/ortalama/en uzun).
+- **Slayt 1 – Metrikler:** planlanan vs. tamamlanan oranı, statü dağılımı, kişi bazında
+  ve iş tipi kırılımı iki versiyonlu (İş adedi | Original Estimate). Lead time histogramı
+  (Created → Closed, gün; medyan/ortalama/en uzun) yalnızca iş adedi üzerinden.
 - **İş tipi kuralı** (GitHub issue type yoksa): başlıkta `[BUG]` → Bug; `DD Project Name`
-  dolu → Proje işi; başlıkta operasyonel anahtar kelime (işlemler, toplantı, takvim,
-  kurulum, inceleme, migration, dependabot, destek süreci, deployment) → Task; kalanlar
+  dolu → Proje işi; başlıkta operasyonel anahtar kelime (işlemler/işlemleri, toplantı,
+  takvim, kurulum, incele, migration, dependabot, destek süreci, deployment, task,
+  dönüşleri, modelbuilder, dwh — düzenli ifade, Türkçe küçük harfle aranır) → Task; kalanlar
   User Story. Export'a `Type` sütunu eklenirse o kullanılır. Anahtar kelimeler
   `--task-keyword`, proje alanı `--project-field` ile değiştirilebilir. Betik her tipe
   düşen başlıkları konsola yazar — kullanıcıya bu sınıflandırmayı doğrulat.
@@ -123,8 +124,10 @@ node $D/export_png.mjs slaytlar.html slayt     # -> slayt-1.png, slayt-2.png (19
 Kullanıcı GitHub'dan indirdiği bir `.tsv`/`.csv` verirse `--from-export` kullan; API
 erişimi gerekmez. Dikkat edilecekler:
 - Dosyada renk bilgisi yoktur; statü renkleri isimden tahmin edilir (Backlog gri,
-  Todo mavi, In Progress sarı, Test turuncu, UAT pembe, Blocked kırmızı, Done yeşil;
-  bilinmeyenler gri). Statü sırası dosyadaki ilk görülme sırasıdır.
+  Todo mavi, In Progress sarı, Review mor, Test turuncu, UAT pembe, Blocked kırmızı,
+  Done/Released yeşil; bilinmeyenler gri). Bilinen statüler iş akışı sırasına dizilir
+  (Backlog → Todo → In Progress → Review → Test → UAT → Done → Released).
+- Takım başına ayrı export gelirse her biri için ayrı klasöre (`sunum/<takım>/`) üret.
 - Yalnızca görünümde açık olan sütunlar dışa aktarılır. `Original Estimate` sütunu
   yoksa grafikler **iş adedi** üzerinden çizilir ve raporda not düşülür — kullanıcıya
   eforlu oran için alanı görünüme ekleyip yeniden dışa aktarmasını öner.
